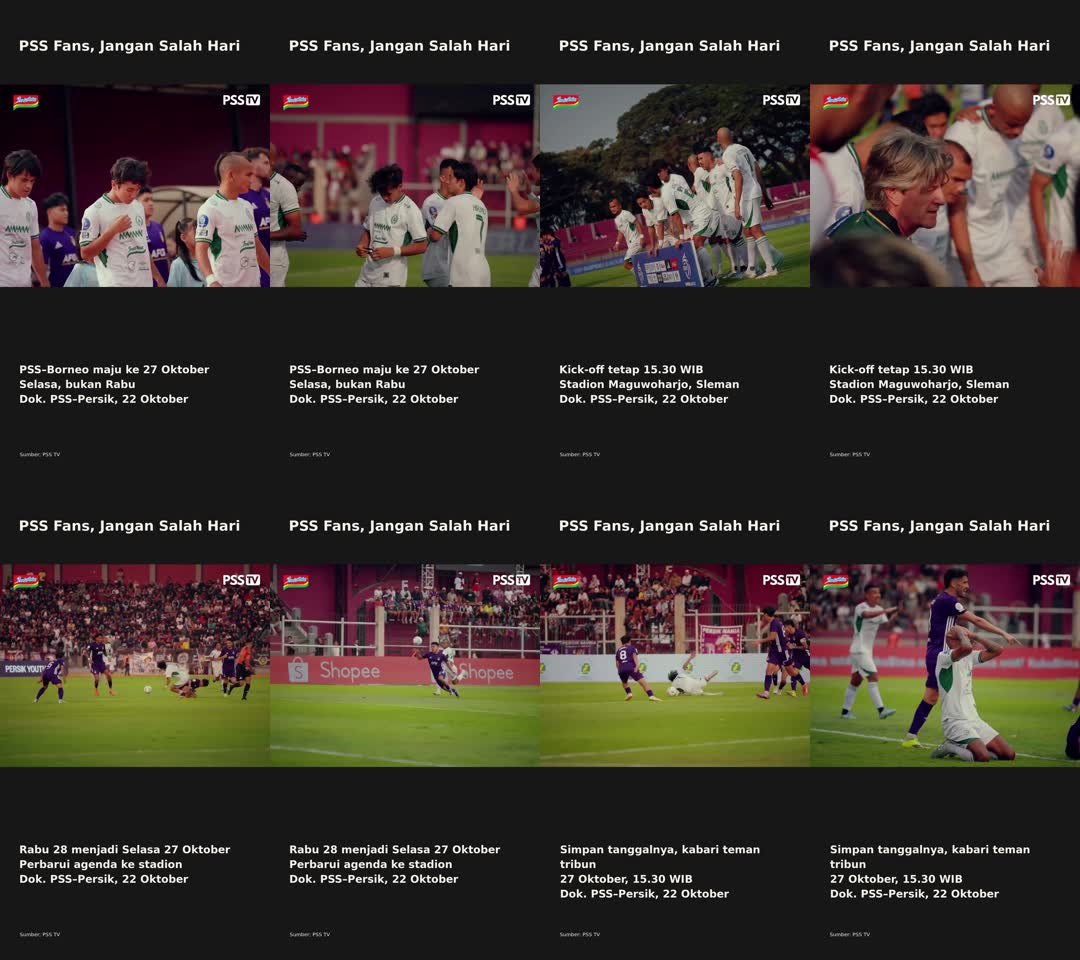
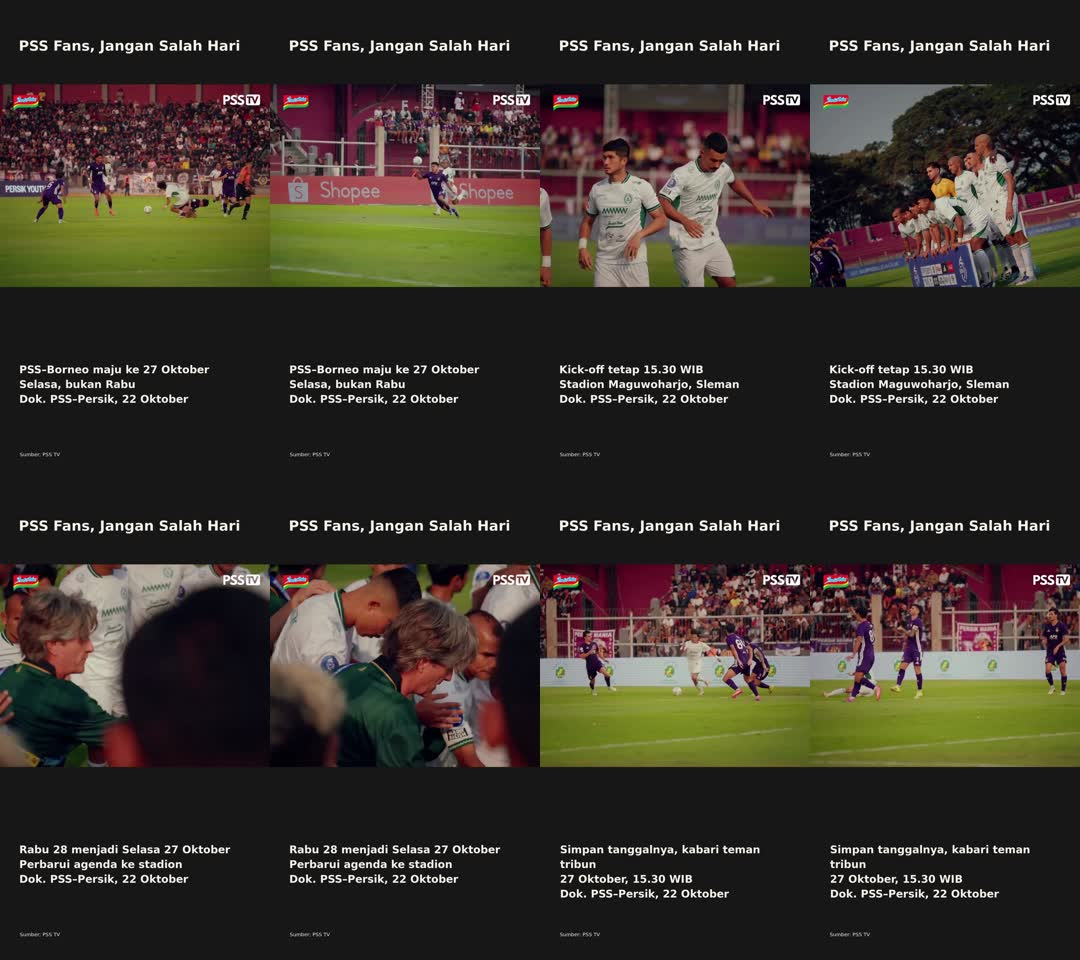
editorial: lead PSS calendar reel with match action

diff --git a/STADIONE_PLAN_MASTER.md b/STADIONE_PLAN_MASTER.md
@@ -2030,3 +2030,11 @@ Normal evening social `80b9be65-650f-4a48-bf2d-2ceed7726a32` and ARTICLE `f41548
 - Growth brief mencatat fakta inti, sudut, hook, payoff dan aksi spesifik simpan/kirim ke teman pemegang jadwal lama. Baseline Meta12:07:45Z: Saka136views/reach116/interaksi1, Persib157views/reach116/interaksi0, carouselClásico2views/reach1/interaksi1. Metrik yang dikembalikan API disimpan apa adanya, termasuk watch-time fields tanpa asumsi retensi lengkap. Umur/format berbeda, tidak dipakai sebagai bukti kausal; tidak membuat persentase engagement dari reach1. Metrik target belum tersedia sebelum publikasi; breakdown nonpengikut, kurva retensi, atribusi follower/profile/paid-organic tidak diisi nol. Review24jam/7hari dicatat untuk25/31Oktober13Z, bukan klaim timer baru sudah dibuat.
[1 lines of base64/hex data omitted]
 - Status commit ini reviewed preview, belum schedule. Setelah commit/push terverifikasi jalankan shared adapter committed, verifikasi ARTICLE kanonis/waktu/byte publik/gate/scope149rowlain/idempotensi, lalu serahkan kepada shared publisher20WIB. Tidak MetaDirect. Tidak mengubah kode produksi, renderer, credential, service, slot lain atau konten additional/historis. Basis rollback dokumentasi `55c2d4d84f16ec97d9ea241365bd3ec49fd3158c`, tanpa membatalkan konten terjadwal/terbit otomatis.
+
+
+### Revisi visual sebelum penjadwalan slot 24 Oktober 20.00 WIB
+
+- Commit persiapan `9273674ab20e149a7b1e7731ab0461df5431dc05` belum dideploy ke CMS. Pada review akhir, pembuka diganti dari adegan lineup menjadi aksi lapangan19–24detik agar hook langsung bergerak. Urutan final19–24/6–11/11–16/24–29, tetap4cut20.104detik dan label arsip22Oktober pada setiap scene. Bukan perubahan konten SCHEDULED/PUBLISHED.
[2 lines of base64/hex data omitted]
+- Bukti review, QA contact dan release/reference proof diperbarui sesuai versi final sebelum commit/push dan shared adapter schedule. Tidak ada perubahan CMS/kode/renderer/credential/service pada revisi ini. Payload persiapan awal tidak dijadwalkan; angka render/hero final di atas berlaku untuk deploy berikutnya.
